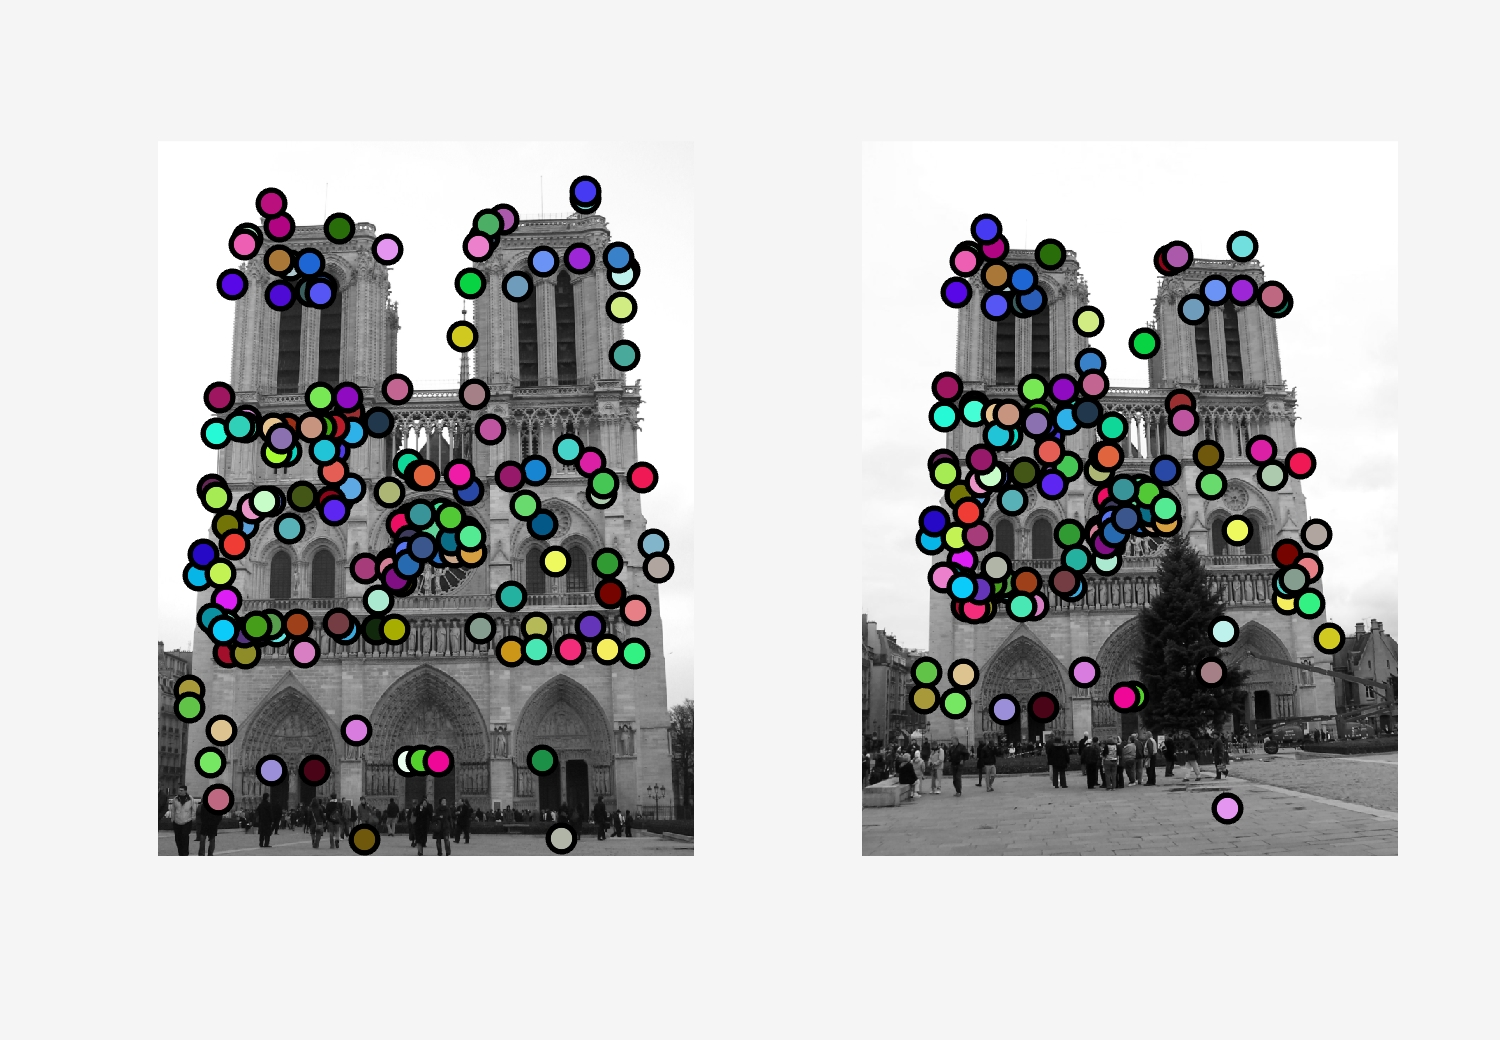
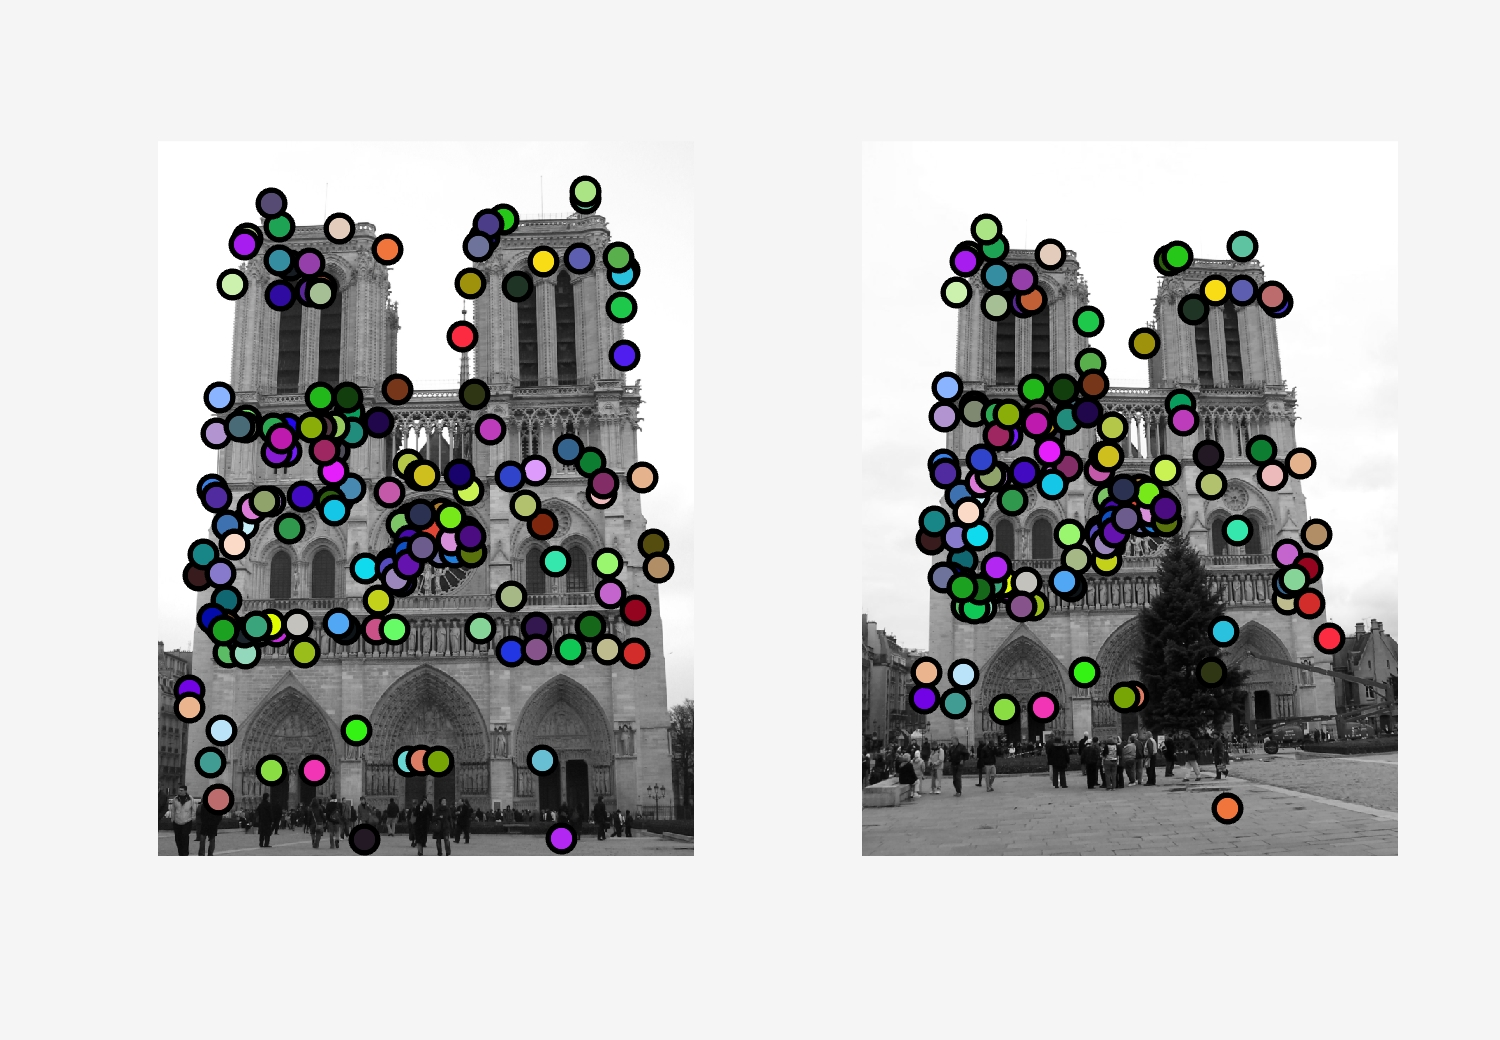
updated max_points

diff --git a/get_interest_points.m b/get_interest_points.m
@@ -39,7 +39,7 @@ function [x, y, confidence, scale, orientation] = get_interest_points(image, fea
 alpha = 0.05;
 rel_threshold = 0.005;
 nms_size = 5;
-max_points = 20000;
+max_points = 2000;
 sigma_d = 1;
 sigma_i = 2;
 
